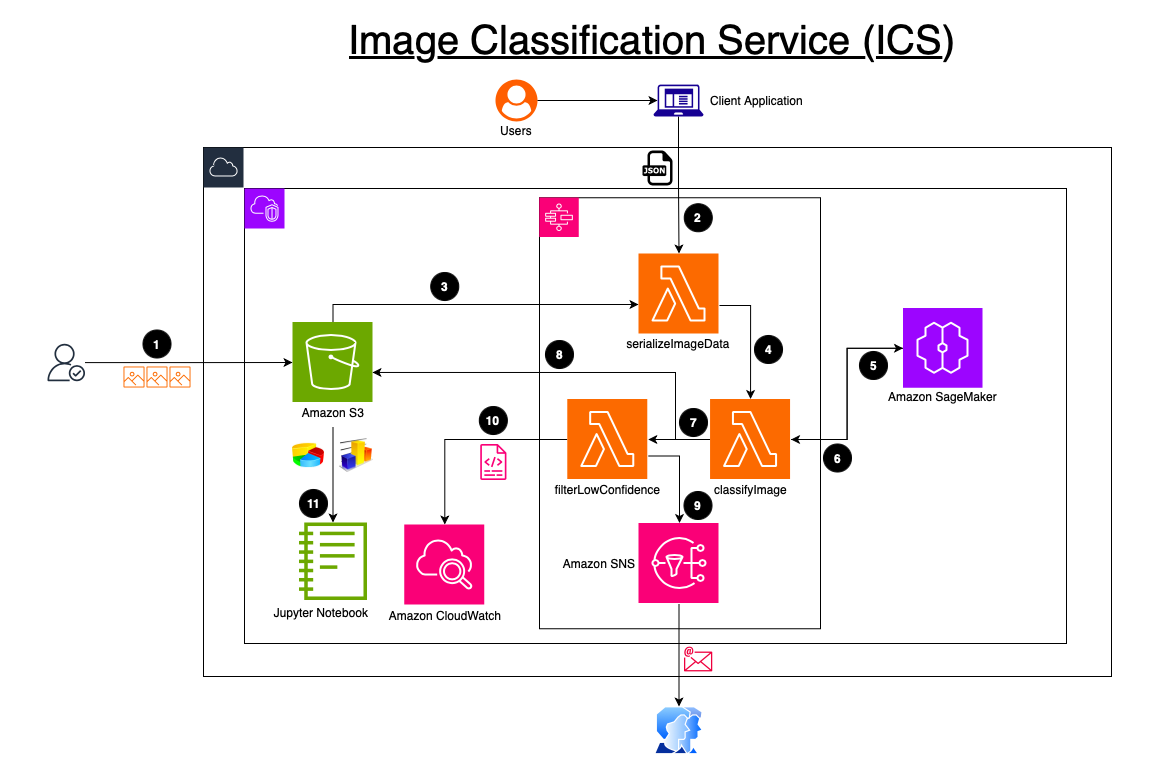
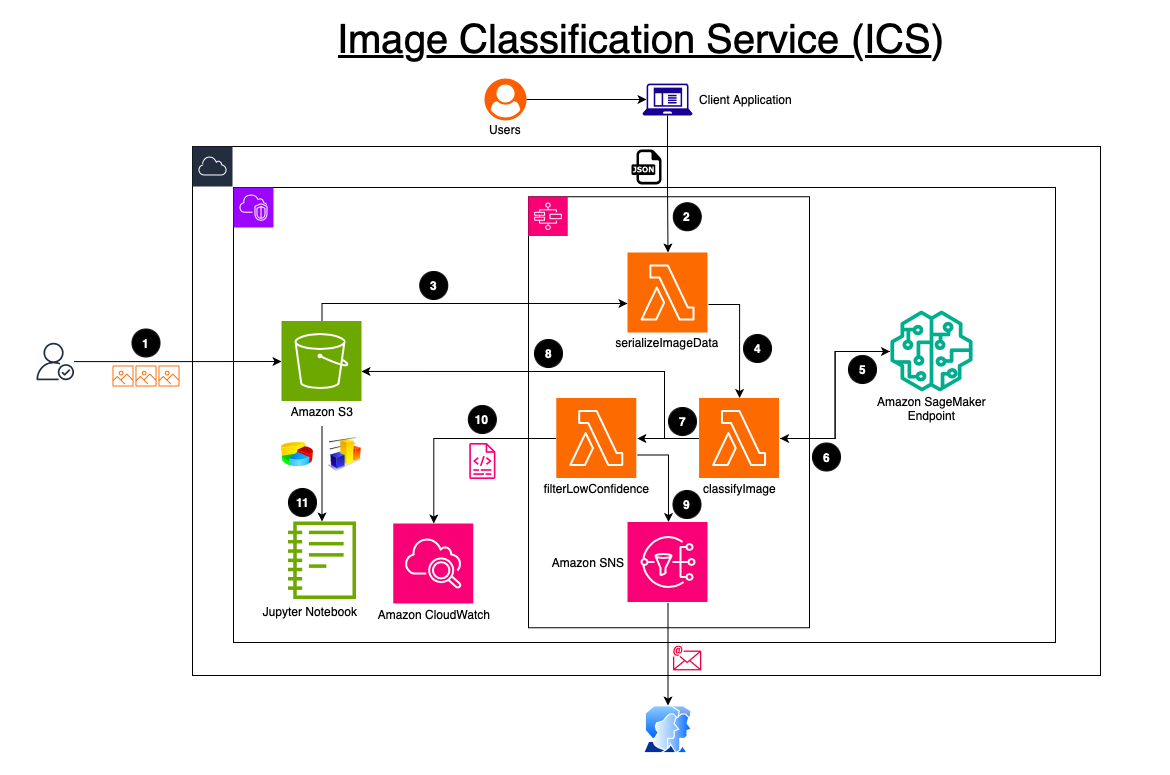
added arch and amended README

Changed region(s): [[0.0309, 0.031, 0.9571, 0.9922]]

diff --git a/README.md b/README.md
@@ -9,7 +9,7 @@ ICS supports both single-image and bulk parallel processing via Step Functions' 
 
 ## 🏗 Solution Architecture
 
-
+![Solution Architecture](solution-arch-final.png)
 
 ---
 
@@ -99,3 +99,14 @@ The **Image Classification Service (ICS)** is designed for organizations that ne
 | **Python**             | Used for Lambda functions and visualization scripts.                    |
 | **Matplotlib & PIL**   | Used for visualizing inference results and decoded images.              |
 | **jsonlines**          | Parses SageMaker Model Monitor `.jsonl` capture files.                  |
+
+![execution breakdown](step-function-execution-breakdown-bulk-items.png)
+
+![success execution](step-function-execution-success-sns-setup-single-item.png)
+
+![failure execution](step-function-execution-failure-sns-notification-bulk-items.png)
+
+
+
+### Inference Example
+![Inference](inference-viz.png)
